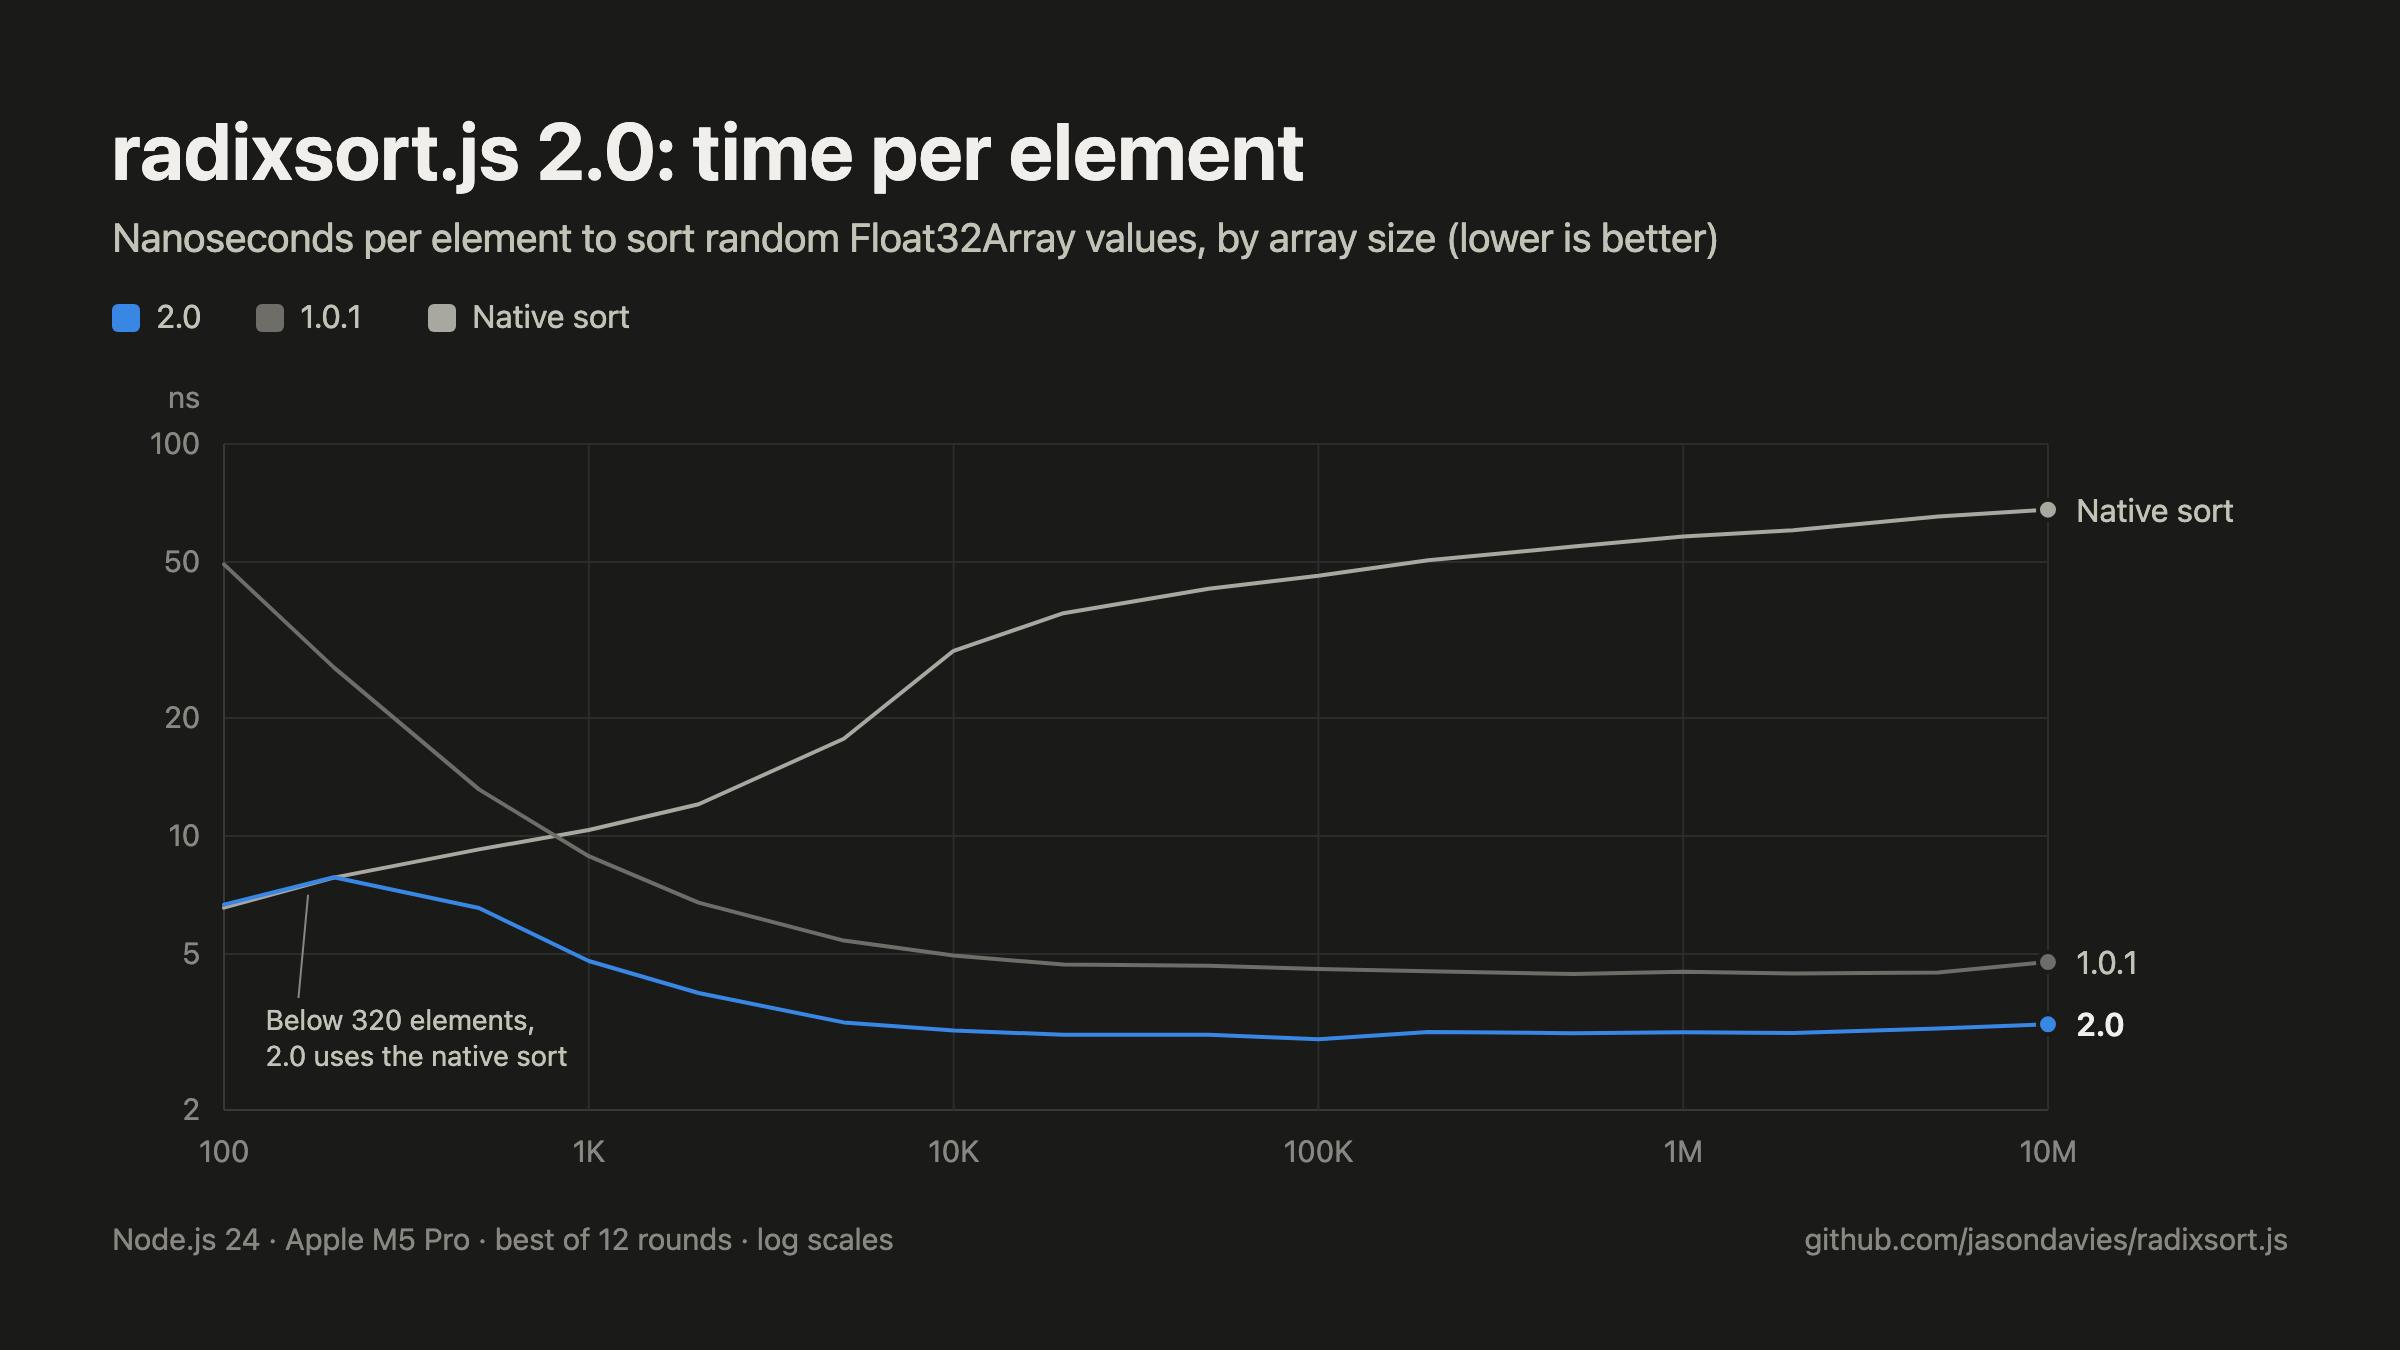
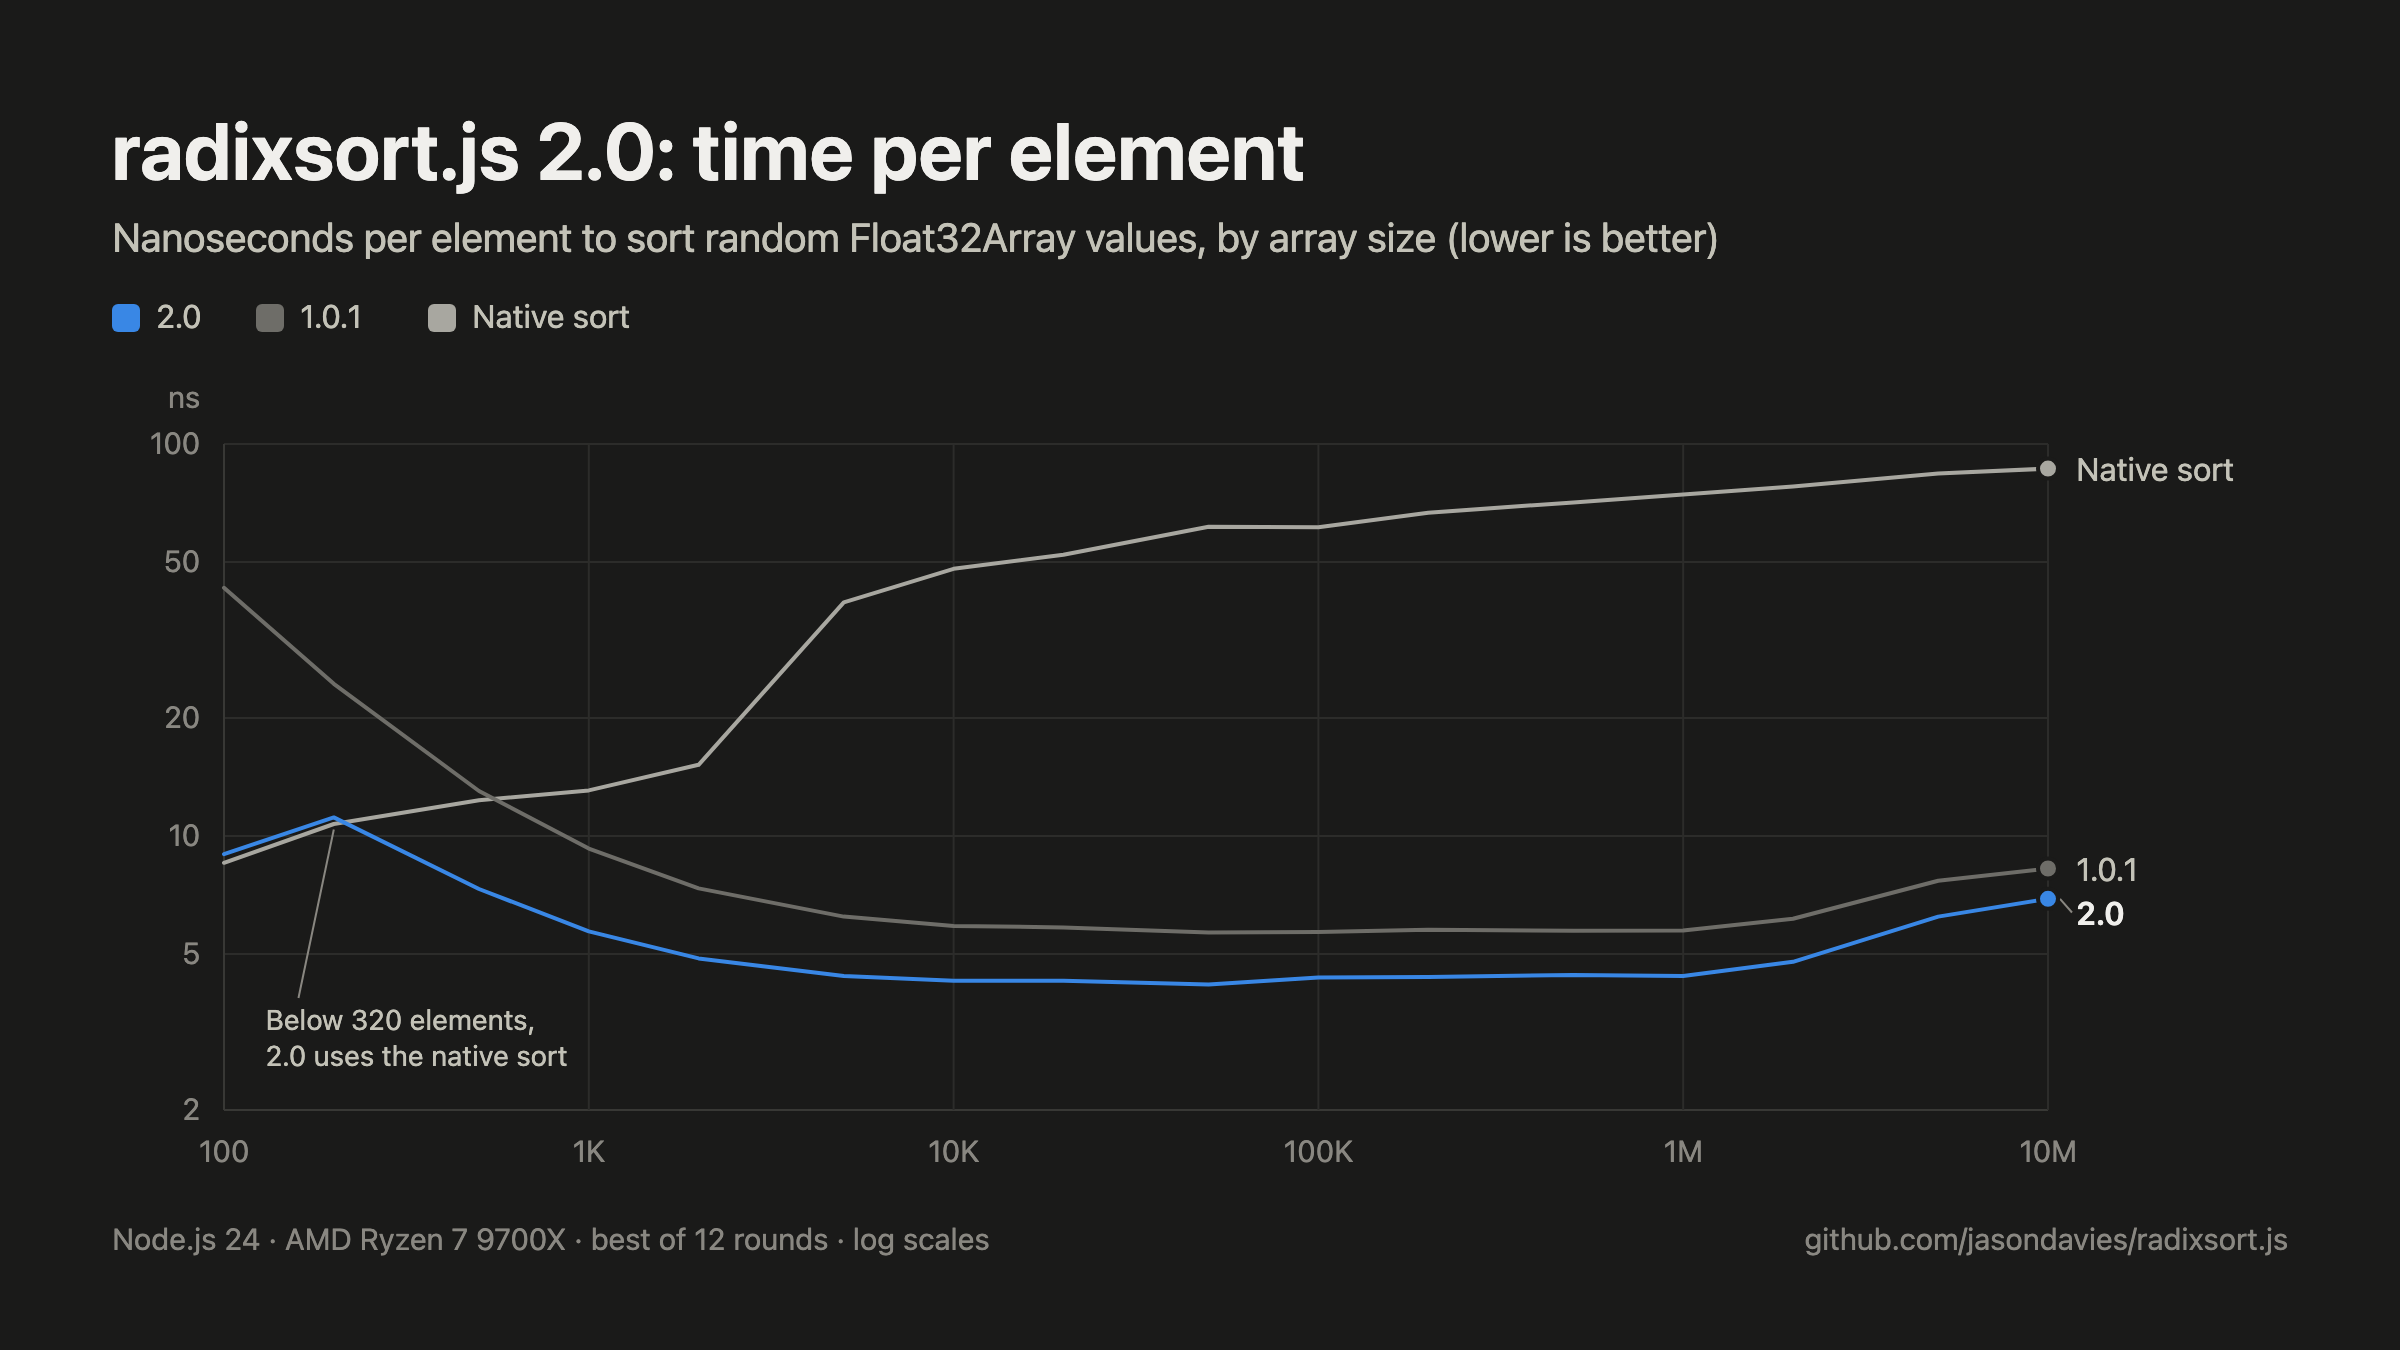
Seed benchmark data and re-run the size chart on a quiet machine
Generate benchmark data with a seeded Park–Miller generator, as in critbit.js, so every run sorts the same values. Re-run benchmark/sizes.js on an idle AMD Ryzen 7 9700X with the performance governor, pinned to one core, and redraw the chart. Point the annotation at the measured data rather than fixed coordinates, and keep end labels apart, with a leader line to any label moved from its line.

diff --git a/benchmark/chart.js b/benchmark/chart.js
@@ -45,18 +45,28 @@ function svg(c) {
     s += `<text x="${x(t)}" y="${plotBottom + 26}" text-anchor="middle" fill="${c.muted}" font-size="15">${label}</text>`;
   }
   s += `<text x="${plotX - 12}" y="${plotTop - 18}" text-anchor="end" fill="${c.muted}" font-size="15">ns</text>`;
-  // The current version is drawn last, so it sits on top.
+  // End labels are spread at least 22px apart, with a leader line to any
+  // label moved away from its line's end.
   const last = results[results.length - 1];
+  const labels = series.map(({ key }) => ({ key, y: y(last[key]) })).sort((a, b) => a.y - b.y);
+  for (let i = 1; i < labels.length; i++) labels[i].y = Math.max(labels[i].y, labels[i - 1].y + 22);
+  const labelY = Object.fromEntries(labels.map(l => [l.key, l.y]));
+  // The current version is drawn last, so it sits on top.
   for (const { key, label } of series) {
     const points = results.map(r => `${x(r.n).toFixed(1)},${y(r[key]).toFixed(1)}`).join(' ');
-    const emphasis = key === 'current';
+    const emphasis = key === 'current', end = y(last[key]);
     s += `<polyline points="${points}" fill="none" stroke="${c[key]}" stroke-width="2" stroke-linejoin="round" stroke-linecap="round"/>`;
-    s += `<circle cx="${x(last.n)}" cy="${y(last[key])}" r="5" fill="${c[key]}" stroke="${c.surface}" stroke-width="2"/>`;
-    s += `<text x="${x(last.n) + 14}" y="${y(last[key]) + 6}" fill="${emphasis ? c.ink : c.ink2}" font-size="16"`
+    if (Math.abs(labelY[key] - end) > 2) {
+      s += `<line x1="${x(last.n) + 6}" y1="${end}" x2="${x(last.n) + 12}" y2="${labelY[key]}" stroke="${c.muted}"/>`;
+    }
+    s += `<circle cx="${x(last.n)}" cy="${end}" r="5" fill="${c[key]}" stroke="${c.surface}" stroke-width="2"/>`;
+    s += `<text x="${x(last.n) + 14}" y="${labelY[key] + 6}" fill="${emphasis ? c.ink : c.ink2}" font-size="16"`
         + ` font-weight="${emphasis ? 600 : 400}">${label}</text>`;
   }
-  // Explain why the current version meets the native sort for small arrays.
-  s += `<line x1="${x(160)}" y1="${y(3.2) - 16}" x2="${x(170)}" y2="${y(7.6) + 6}" stroke="${c.muted}"/>`;
+  // Explain why the current version meets the native sort for small arrays,
+  // pointing to where the two lines meet.
+  const small = results.find(r => r.n === 200);
+  s += `<line x1="${x(160)}" y1="${y(3.2) - 16}" x2="${x(small.n)}" y2="${y(small.current) + 6}" stroke="${c.muted}"/>`;
   s += `<text x="${x(130)}" y="${y(3.2)}" fill="${c.ink2}" font-size="14">Below 320 elements,</text>`;
   s += `<text x="${x(130)}" y="${y(3.2) + 18}" fill="${c.ink2}" font-size="14">2.0 uses the native sort</text>`;
   const legend = (lx, color, label) => `<rect x="${lx}" y="152" width="14" height="14" rx="3" fill="${color}"/>`
@@ -68,7 +78,7 @@ function svg(c) {
 <text x="${pad}" y="${pad + 70}" fill="${c.ink2}" font-size="20">Nanoseconds per element to sort random Float32Array values, by array size (lower is better)</text>
 ${legend(pad, c.current, '2.0')}${legend(pad + 72, c.previous, '1.0.1')}${legend(pad + 158, c.native, 'Native sort')}
 ${s}
-<text x="${pad}" y="${H - pad + 6}" fill="${c.muted}" font-size="15">Node.js ${node.slice(1).split('.')[0]} · ${cpu} · best of 12 rounds · log scales</text>
+<text x="${pad}" y="${H - pad + 6}" fill="${c.muted}" font-size="15">Node.js ${node.slice(1).split('.')[0]} · ${cpu.replace(/ \d+-Core Processor$/, '')} · best of 12 rounds · log scales</text>
 <text x="${W - pad}" y="${H - pad + 6}" text-anchor="end" fill="${c.muted}" font-size="15">github.com/jasondavies/radixsort.js</text>
 </svg>`;
 }

diff --git a/benchmark/sizes.js b/benchmark/sizes.js
@@ -12,6 +12,10 @@ import { join } from 'node:path';
 import { fileURLToPath } from 'node:url';
 import { radixsort } from '../radixsort.js';
 
+// A seeded pseudo-random number generator, so every run sorts the same data.
+let seed = 1;
+const random = () => (seed = seed * 16807 % 2147483647) / 2147483647;
+
 const sizes = [100, 200, 500, 1e3, 2e3, 5e3, 1e4, 2e4, 5e4, 1e5, 2e5, 5e5, 1e6, 2e6, 5e6, 1e7];
 const script = fileURLToPath(import.meta.url);
 
@@ -39,7 +43,7 @@ if (process.argv[2]) {
 // fresh copies per round so small sizes aren't dominated by timer overhead.
 function measure(n, previous) {
   const data = Float32Array.from({ length: n }, () =>
-    Math.exp((Math.random() - .5) * 100) * (Math.random() < .5 ? 1 : -1));
+    Math.exp((random() - .5) * 100) * (random() < .5 ? 1 : -1));
   const aux = new Float32Array(n), sortPrevious = previous(), sort = radixsort();
   const implementations = {
     native: a => a.sort(),

diff --git a/test/benchmark.js b/test/benchmark.js
@@ -4,8 +4,13 @@ import { radixsort } from '../radixsort.js';
 const sort = radixsort();
 const n = 1 << 16;
 const rounds = 100;
+
+// A seeded pseudo-random number generator, so every run sorts the same data.
+let seed = 1;
+const random = () => (seed = seed * 16807 % 2147483647) / 2147483647;
+
 const data = Float32Array.from({ length: n }, () =>
-  Math.exp((Math.random() - .5) * 100) * (Math.random() < .5 ? 1 : -1));
+  Math.exp((random() - .5) * 100) * (random() < .5 ? 1 : -1));
 
 // Sorts a fresh copy each round, since radix sort modifies its input.
 function sortsPerSecond(f) {
